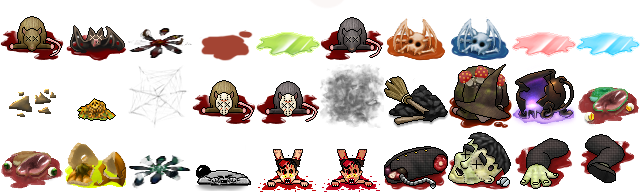
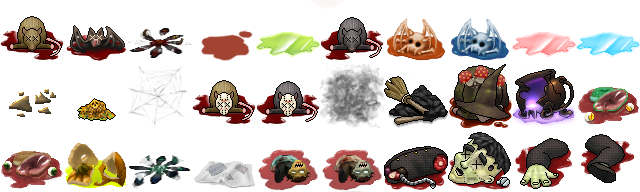
ADD New art for ghost

Changed region(s): [[0.2812, 0.7812, 0.5938, 1.0]]

diff --git a/src/GhostEntity.cpp b/src/GhostEntity.cpp
@@ -12,7 +12,7 @@ GhostEntity::GhostEntity(float x, float y)
 {
 
   frame = 0;
-  dyingFrame = 4;
+  dyingFrame = 3;
   deathFrame = FRAME_CORPSE_GHOST;
   enemyType = EnemyTypeGhost;
   hp = GHOST_HP;
@@ -24,7 +24,6 @@ GhostEntity::GhostEntity(float x, float y)
   timer = 0.0f;
 
   bloodColor = BloodNone;
-  shadowFrame = 3;
 
   agonizingSound = SOUND_GHOST_DYING;
 
